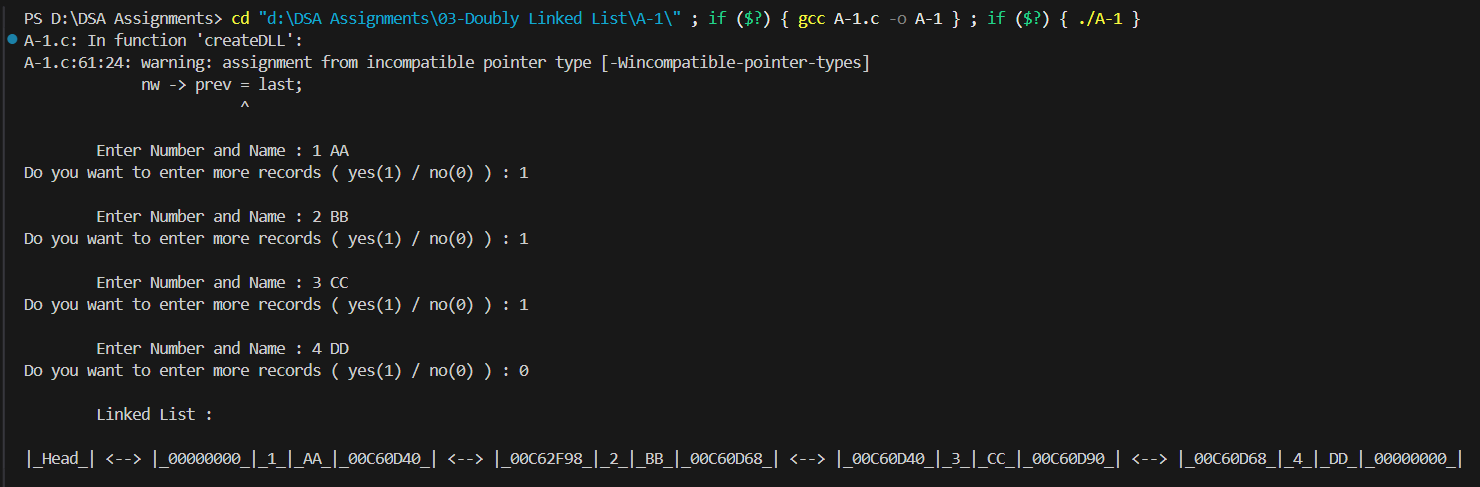
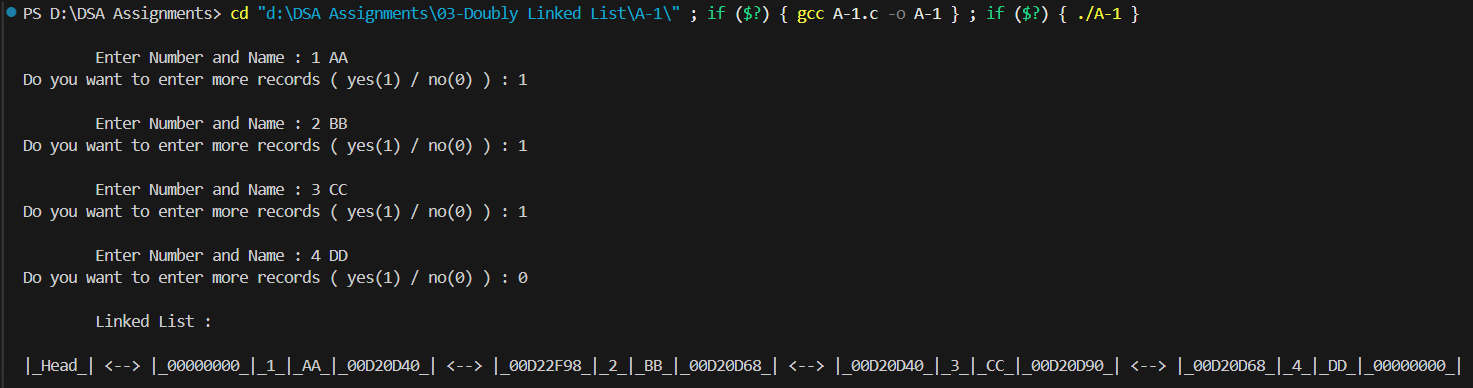
Doubly Linked List Assignment No. 1

diff --git a/03-Doubly Linked List/A-1/A-1.c b/03-Doubly Linked List/A-1/A-1.c
@@ -10,7 +10,7 @@ typedef struct DLLNode
     int number;
     char name[20];
     struct DLLNode *next;
-    struct DLlNode *prev;
+    struct DLLNode *prev;
 } DLLNode;
 
 DLLNode* createDLL();
@@ -101,5 +101,5 @@ void freeDLL(DLLNode *f) {
 
                     Linked List : 
 
-            |_Head_| <--> |_00000000_|_1_|_AA_|_00C60D40_| <--> |_00C62F98_|_2_|_BB_|_00C60D68_| <--> |_00C60D40_|_3_|_CC_|_00C60D90_| <--> |_00C60D68_|_4_|_DD_|_00000000_|                             
+            |_Head_| <--> |_00000000_|_1_|_AA_|_00D20D40_| <--> |_00D22F98_|_2_|_BB_|_00D20D68_| <--> |_00D20D40_|_3_|_CC_|_00D20D90_| <--> |_00D20D68_|_4_|_DD_|_00000000_|                    
 */
